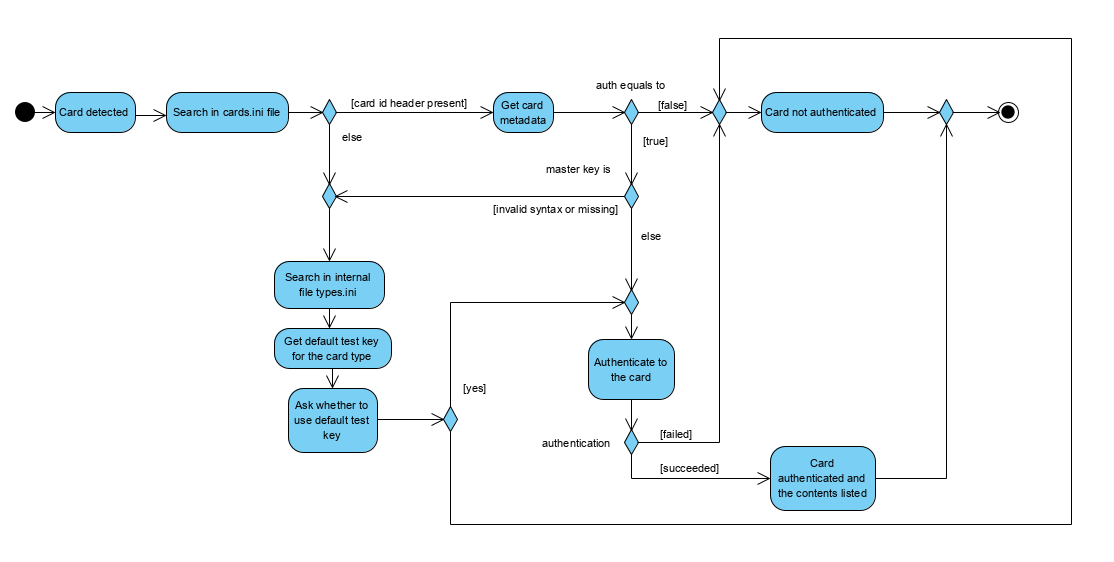
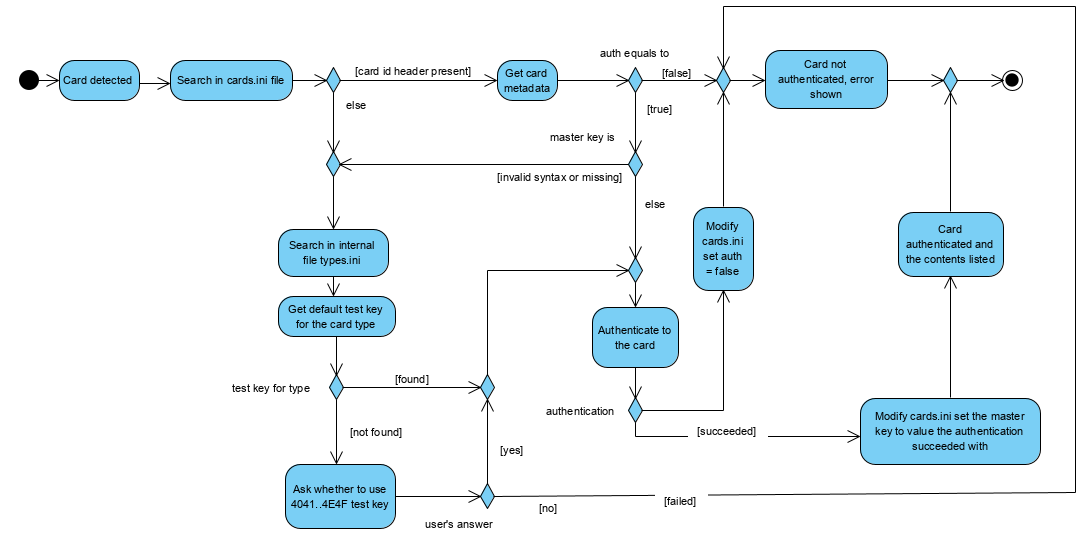
Update readme and card cation detections

diff --git a/src/main/java/cz/muni/crocs/appletstore/card/CardInstance.java b/src/main/java/cz/muni/crocs/appletstore/card/CardInstance.java
@@ -76,7 +76,7 @@ public class CardInstance {
         reload(defaultTestKey);
     }
 
-    void reload(boolean useDefaultTestKey)
+    private void reload(boolean useDefaultTestKey)
             throws LocalizedCardException, CardException, UnknownKeyException {
         if (useDefaultTestKey) {
             setTestPassword404f();
@@ -155,7 +155,7 @@ public class CardInstance {
                 kcv = parser.getValue(IniParser.TAG_KEY_CHECK_VALUE).toUpperCase();
                 diversifier = parser.getValue(IniParser.TAG_DIVERSIFIER).toUpperCase();
                 doAuth = parser.getValue(IniParser.TAG_AUTHENTICATED).toLowerCase().equals("true");
-                return !(masterKey == null || masterKey.isEmpty());
+                return validMasterKey(masterKey);
             }
 
             logger.info("Card " + id + " saved into card list database.");
@@ -178,6 +178,10 @@ public class CardInstance {
         } catch (IOException e) {
             throw new LocalizedCardException("Unable to save new card details.", "E_card_details_failed");
         }
+    }
+
+    public static boolean validMasterKey(String key) {
+        return key != null && !key.isEmpty() && key.length()% 2 == 0 && key.length() > 15; //todo get key boundaries, should be 32 length for 16 B
     }
 
     /**

diff --git a/src/main/java/cz/muni/crocs/appletstore/action/FreeMemoryAction.java b/src/main/java/cz/muni/crocs/appletstore/action/FreeMemoryAction.java
@@ -12,13 +12,32 @@ public class FreeMemoryAction extends CardAbstractAction {
     private OnEventCallBack<Void, byte[]> customCall;
 
     public FreeMemoryAction(OnEventCallBack<Void, byte[]> call) {
-        super(OnEventCallBack.empty());
+        super(new OnEventCallBack<Void, Void>() {
+            @Override
+            public void onStart() {
+                call.onStart(); //delegated to the wrapper
+            }
+
+            @Override
+            public void onFail() {
+                call.onFail(); //delegated to the wrapper
+            }
+
+            @Override
+            public Void onFinish() {
+                return null; //handled by call
+            }
+
+            @Override
+            public Void onFinish(Void aVoid) {
+                return null; //handled by call
+            }
+        });
         customCall = call;
     }
 
     @Override
     public void mouseClicked(MouseEvent e) {
-        customCall.onStart();
         execute(() -> customCall.onFinish(JCMemory.getSystemInfo()),
                 "JCMemory.getSystemInfo() failed", textSrc.getString("E_could_not_get_memory"));
     }

diff --git a/src/main/java/cz/muni/crocs/appletstore/action/CardAbstractAction.java b/src/main/java/cz/muni/crocs/appletstore/action/CardAbstractAction.java
@@ -73,6 +73,7 @@ public abstract class CardAbstractAction extends MouseAdapter implements CardAct
                     return;
                 } catch (UnknownKeyException ex) {
                     logger.error("UnknownKeyException after key was set. Should not even get here.");
+                    SwingUtilities.invokeLater(call::onFail);
                     InformerFactory.getInformer().showFullScreenInfo(
                             new ErrorPane(textSrc.getString("E_authentication"),
                                     textSrc.getString("E_master_key_not_found"), "lock.png"));
@@ -126,6 +127,7 @@ public abstract class CardAbstractAction extends MouseAdapter implements CardAct
 
             if (useDefaultTestKey() == JOptionPane.YES_OPTION) {
                 manager.setTryGenericTestKey();
+                manager.setReloadCard();
                 failed.execute();
             } else {
                 logger.warn(e.getMessage());

diff --git a/src/main/java/cz/muni/crocs/appletstore/card/command/Install.java b/src/main/java/cz/muni/crocs/appletstore/card/command/Install.java
@@ -79,16 +79,6 @@ public class Install extends GPCommand<Void> {
         GPRegistryEntry.Privileges privs = new GPRegistryEntry.Privileges();
         if (defaultSelected) privs.add(GPRegistryEntry.Privilege.CardReset);
 
-        if (data.isForce() && (registry.getDefaultSelectedAID().isPresent() && privs.has(GPRegistryEntry.Privilege.CardReset))) {
-            try {
-                //todo do not delete default selected !!!
-                //ask about it
-                context.deleteAID(registry.getDefaultSelectedAID().get(), false);
-            } catch (IOException e) {
-                e.printStackTrace();
-            }
-        }
-
         logger.info("Installing applet: pkg " + file.getPackageAID() + ", aid " + appletAID + ", custom aid " + customAID);
         try {
             context.installAndMakeSelectable(
@@ -102,5 +92,4 @@ public class Install extends GPCommand<Void> {
         }
         return true;
     }
-
 }

diff --git a/src/main/java/cz/muni/crocs/appletstore/card/CardManagerImpl.java b/src/main/java/cz/muni/crocs/appletstore/card/CardManagerImpl.java
@@ -218,9 +218,8 @@ public class CardManagerImpl implements CardManager {
     }
 
     @Override
-    public void setTryGenericTestKey(/*boolean reloadOnRefresh*/) {
+    public void setTryGenericTestKey() {
         this.tryGeneric = true;
-//        setReloadCard();
     }
 
     @Override

diff --git a/README.md b/README.md
@@ -2,20 +2,21 @@
 
 Have you ever wondered how to manage your passwords? Or would you like to have your own virtual wallet, but do not know what to do? Then it is time for you to discover JCAppStore, first open source smart card store and GUI tool.
 
-####I am in!
+#### I am in! ####
 
 There are several things you need to have and know first. Don't worry, we tried to make it as 
 intuitive as possible.
 
 1. :credit_card: Own a card - naturally, you need to have a card. If don't check this 
 [awesome buyer's guide](https://github.com/martinpaljak/GlobalPlatformPro/tree/master/docs/JavaCardBuyersGuide). 
-2. :no_entry_sign: Make sure you know the master password. This should've been given to you 
-by card vendor. Though, for most common card types, the store recognizes the default passwords 
+2. :key: Make sure you know the master password. This should've been given to you 
+by card vendor. Though for most common card types, the store recognizes the default passwords 
 automatically :thumbsup:.
 3. :abcd: Get yourself familiar with basic terms. You've learned words like software, touch 
 screen, charger and so on. Smart cards have their own terms too.
 
-####How the store works?
+How the store works?
+------
 
 This application is only a tool for card management. It will not allow you to use the card 
 applications themselves. That's why we try to include a pool (store), that contains safe, and
@@ -23,7 +24,7 @@ intuitive software to install. You will always find the usage guide in the store
 Also, in the right upper corner, browse help for more detailed description. 
 Full documentation is accessible in [TODO]
 
-####Basic terms (lightweight)
+####Basic terms (not exact, but a lot easier to understand to)####
 <details>
    <summary>Applet</summary>
    <p>Applet is the software running on your card. You can think of it as a synonym for application.</p>
@@ -68,14 +69,31 @@ Full documentation is accessible in [TODO]
    SDK instead.</p>
 </details>
 
-#### Installing
+#### Installing ####
 
-#### Deleting
+#### Deleting ####
+
+#### Authentication ####
+
+The card authentication is executed as follows:
+1) If the card is present in **cards.ini** file, the authentication is performed, if **auth = true** is set and the key value is not in an invalid format
+2) If the card is not present in the file, or the key is invalid, a default test key is searched.
+    1) If the test key is found the card is authenticated **immediately** with it as **we suppose user did not change the test key**.
+    2) If no test key found the user is asked whether to use the common test key 4041..4E4F.
+
+![Authentication activity diagram](readme-res/auth-activity-diagram.png)
+
 
 #### Custom master key
 
 We do not recommend to change default master key if you don't have a reason to do so 
-(e.g. you know you have to). However, if you've already changed it or 
+(e.g. you know you have to). However, if you've already changed it (or the application doesn't know the default test key for your card), 
+then you need to modify the **cards.ini** file.
+
+1) Locate the file in your default documents folder/JCAppStore/data/
+2) Search for your card block, beginning with \[card id value here\]. The card id can be obtained from the store (just plug in the card, the error message will show you the card id).
+3) Modify the key field - set the correct master key value (in hex string, we don't support the 3-piece keys yet).
+4) Modify the auth field - set value to true if not set, for the store to actually try to authenticate to the card.
 
 This store is a GUI layer for GlobalPlatformPro basic functionality. It's purpose is not 
 to mimic GPPro, but to ease the basic card management. Also, the store holds chosen applets 
